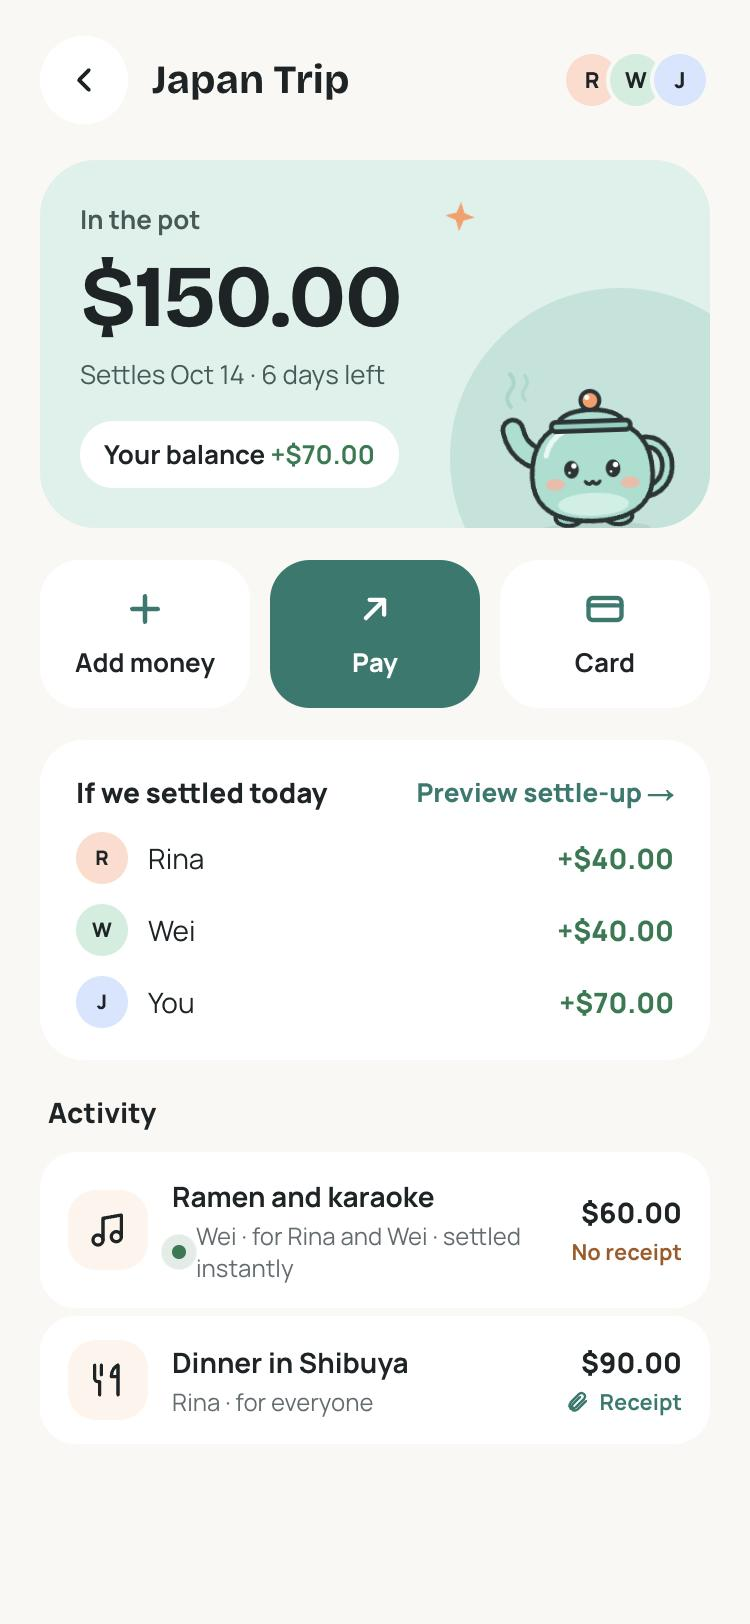
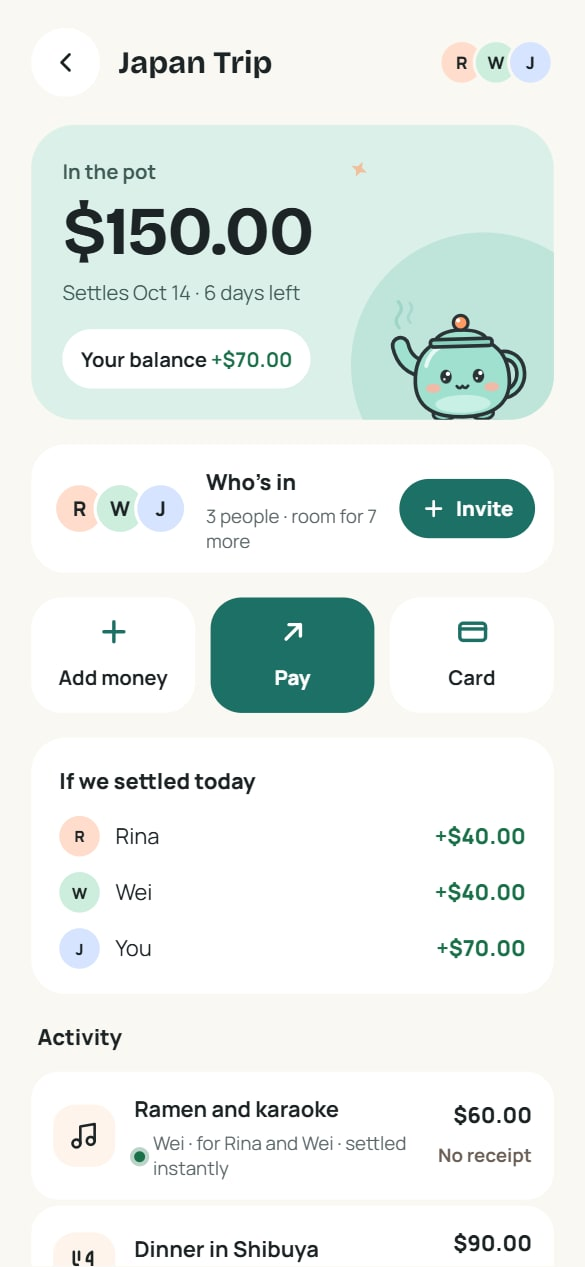
chore(web): refresh the landing screenshots from the current app
Replace trip.jpg and invoice.jpg with the new app captures (Who's in
card, www.tekosue.xyz invoice link), converted to JPEG; the code loads
the .jpg names.

diff --git a/apps/web/public/landing/README.md b/apps/web/public/landing/README.md
@@ -1,5 +1,5 @@
 # Landing images
 
-`trip.jpg` and `invoice.jpg` are real screenshots of the demo dashboard (`/trips/japan` and `/trips/japan/invoice/jack`) at a 375×812 viewport, 2x. They are also used on `/get-app`. If the dashboard changes, retake them: open the page at a phone viewport, hide the Next.js dev indicator, and save the screenshot under the same name.
+`trip.jpg` and `invoice.jpg` are real screenshots of the app in demo mode (Japan Trip, and Jack's invoice) at a 375×812 viewport, 1.56x (585×1267). They are the same captures as `docs/assets/screens/trip.png` and `invoice.png`, saved as JPEG for the web, and are used on the landing page ("Try the demo") and on `/get-app`. If the app changes, retake them and convert to JPEG under the same names (the code loads `.jpg`).
 
 The hero, "How it works", "Built with" and closing CTA panels no longer use images: they are 3D scenes in `src/components/landing/three/` (see ADR 0010).
